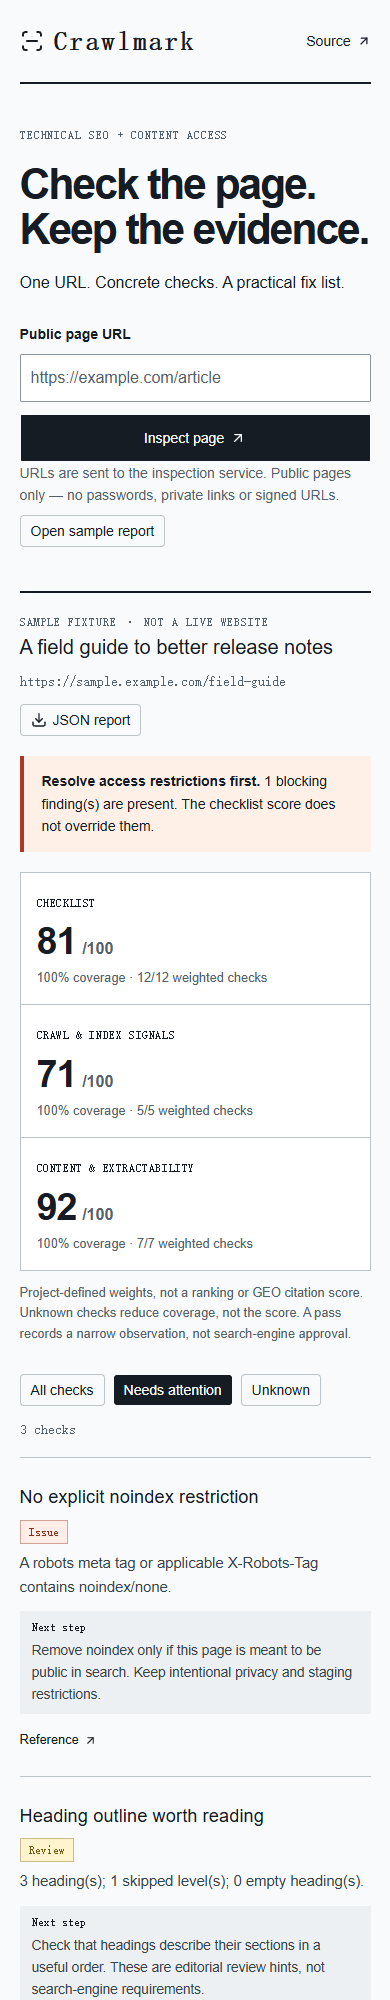
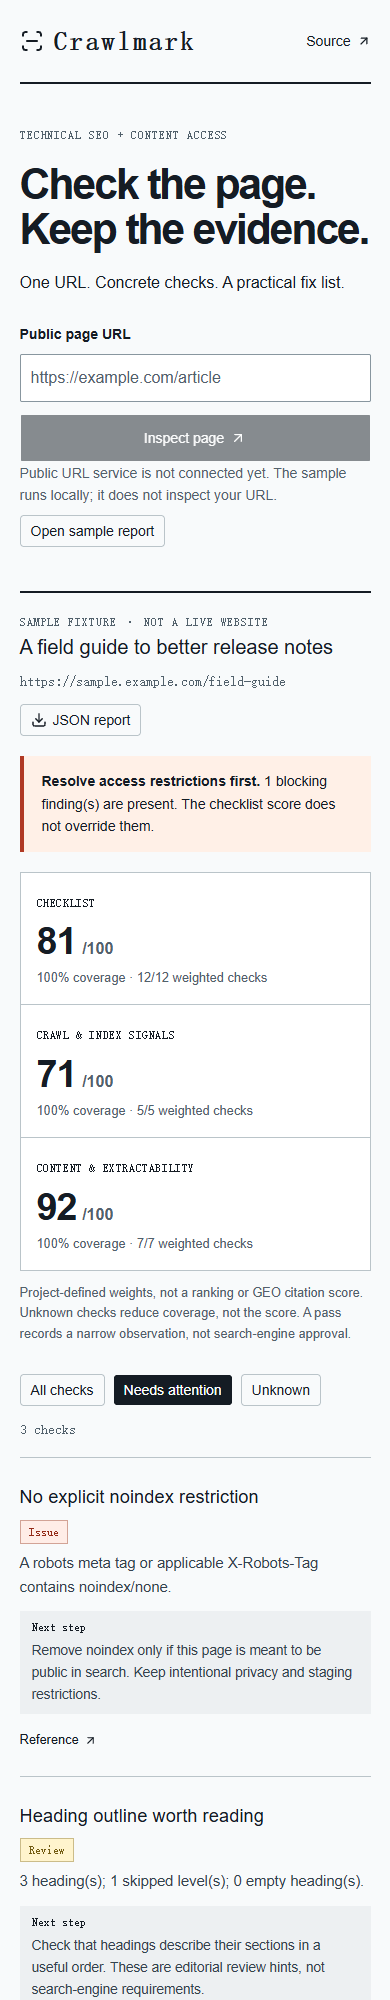
Document public preview verification and refresh screenshots

Changed region(s): [[0.0308, 0.186, 0.9538, 0.248]]

diff --git a/docs/testing.md b/docs/testing.md
@@ -14,3 +14,5 @@ Additional browser checks:
 - Lint, TypeScript and the ordinary Windows static build pass. The Windows Pages-mode build exited 1 during client output without a diagnostic; it is not considered successful. Linux Pages CI is the release gate for the prefixed build.
 
 Public API hosting is not configured yet. The static preview explicitly labels its sample and disables live inspection without an endpoint. Passing tests do not replace network isolation or deployment review.
+
+Public deployment verified on 2026-09-05: Linux inspection tests and Pages build/deployment passed for `144557b`. The public `/crawlmark/` page loads its sample worker, reports score 81 with a noindex blocker, and filters to three attention findings. Canonical and favicon paths use the correct project prefix. Screenshots were then refreshed from this public preview. The real-URL control is visibly disabled with an explanation while no hosted API is configured.

diff --git a/README.md b/README.md
@@ -6,7 +6,7 @@ A small URL inspection service for technical SEO and content-access reviews. Get
 
 ![Crawlmark sample report with a noindex blocker and concrete review steps](docs/images/workspace.png)
 
-The screenshot is from the local app. The sample is evaluated by the same report engine; it is not a live fetch of the example domain.
+The screenshot is from the public Pages preview. The sample is evaluated by the same report engine; it is not a live fetch of the example domain.
 
 ## What it inspects
 
